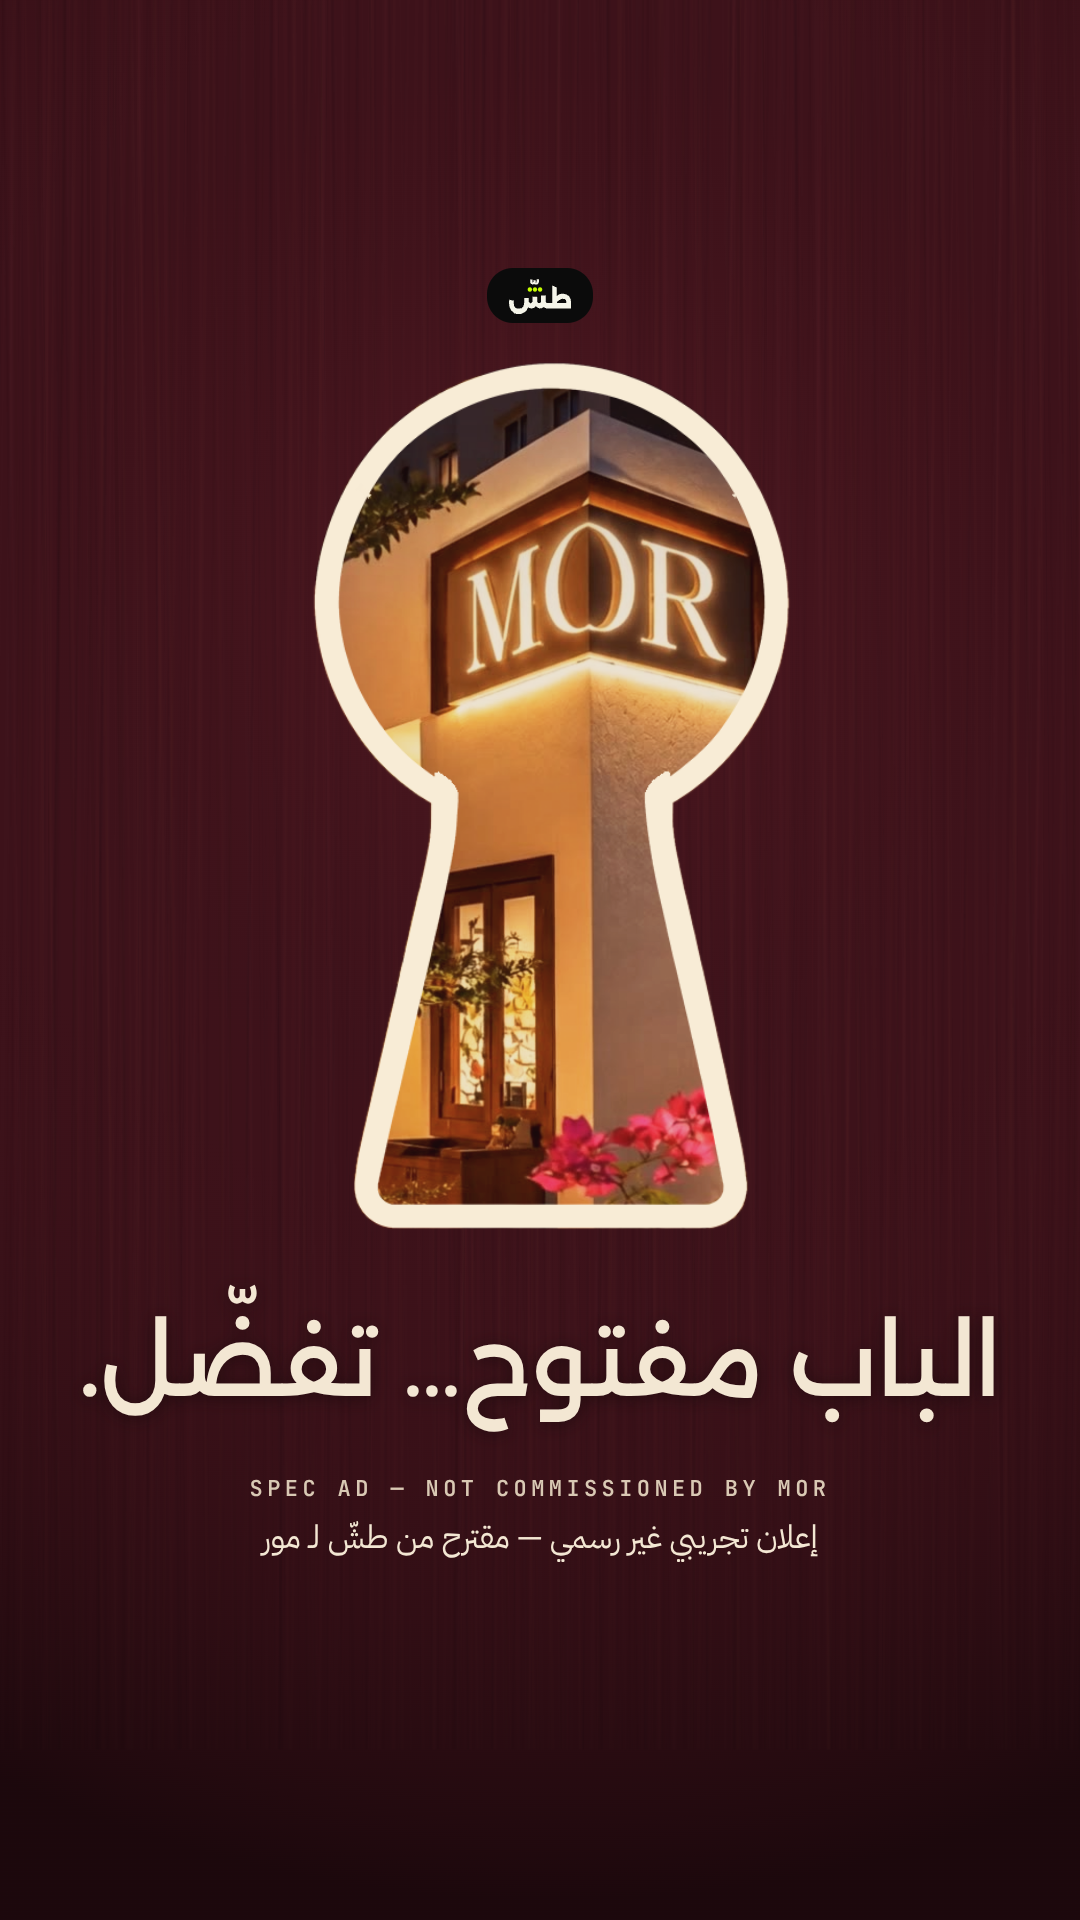
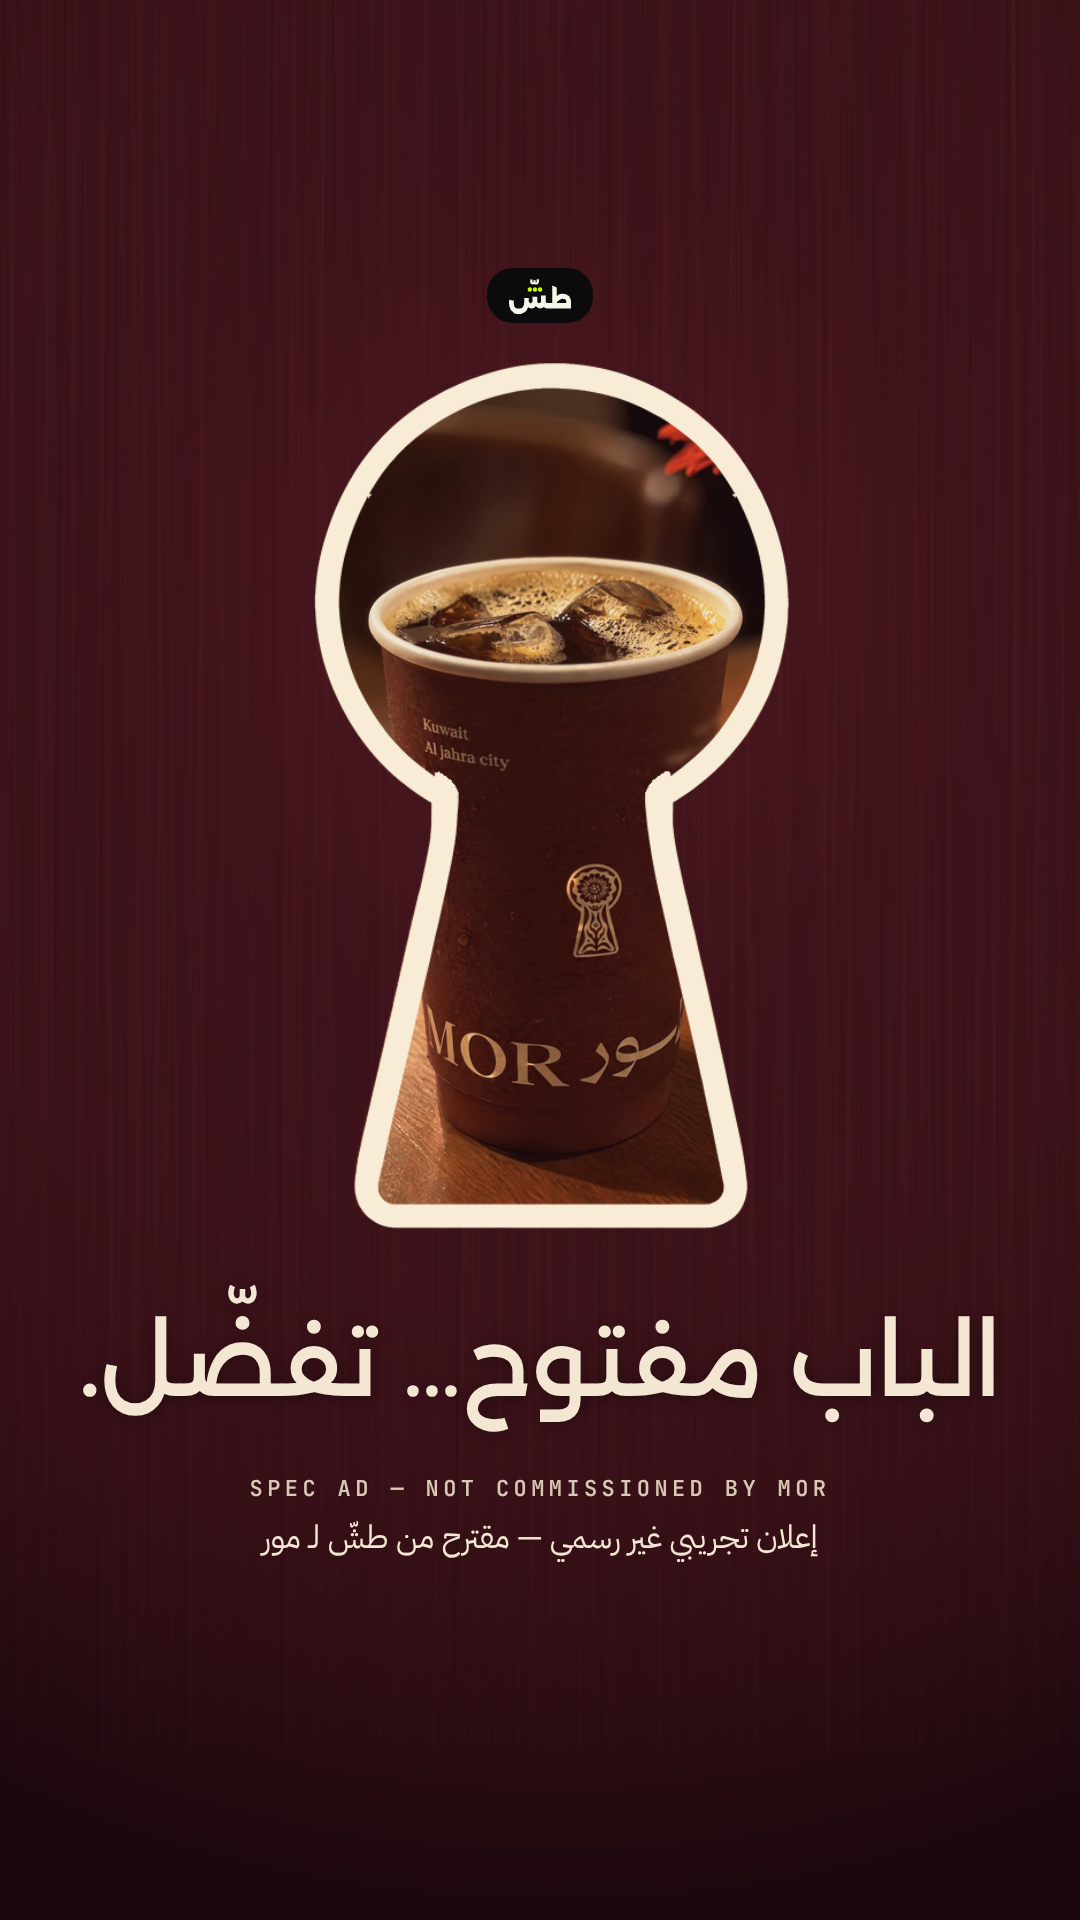
TASH: MOR spec ad: CD fixes (tracked soften of misprinted cup Arabic; poster keyhole frames the cup, not the AI sign)

Changed region(s): [[0.3056, 0.1875, 0.7333, 0.6562]]

diff --git a/tash/09-pitch-mor/src/main.js b/tash/09-pitch-mor/src/main.js
@@ -67,8 +67,53 @@ async function drawFootage(t, extra = {}) {
   const fsx = fx, fsy = fy - oy;                         // the focus point's screen position
   const sx = clamp(fx - fsx / z, 0, W - sw), sy = clamp(fy - fsy / z, 0, SH - sh);
   g.drawImage(img, sx, sy, sw, sh, 0, 0, W, H);
+  softenPrint(seg.id, f - Math.round(seg.t0 * FPS), (x, y) => [(x - sx) * z, (y - sy) * z], z);
   grade(g, { match: MATCH[seg.clip], shades: CLEAN ? [] : (LY.shades[seg.id] || []), ...extra });
   return { seg, f, map: { sx, sy, z } };
+}
+
+// ---------------------------------------------------------------- the cups' small printed Arabic (CD review)
+// The AI misprinted it (m3: garbled; m7: «الكميت» for «الكويت»). tools/track_patch.py tracks the block per frame;
+// here it is softened past legibility with a feathered, deterministic box blur. English and «مور MOR» stay sharp.
+const PATCH = await (await fetch(new URL('./assets/patches.json', import.meta.url))).json();
+const PAD = { C: [44, 14, 24, 30], G: [24, 22, 26, 24] };            // left, top, right, bottom (source px)
+function blurBox(d, w, h, r) {                                     // 3-pass separable box blur, in place (RGB)
+  const tmp = new Float32Array(Math.max(w, h) * 3);
+  for (let pass = 0; pass < 3; pass++) {
+    for (let y = 0; y < h; y++) {                                  // horizontal
+      for (let x = 0; x < w; x++) for (let c = 0; c < 3; c++) {
+        let a = 0, n = 0;
+        for (let k = -r; k <= r; k++) { const xx = Math.min(w - 1, Math.max(0, x + k)); a += d[(y * w + xx) * 4 + c]; n++; }
+        tmp[x * 3 + c] = a / n;
+      }
+      for (let x = 0; x < w; x++) for (let c = 0; c < 3; c++) d[(y * w + x) * 4 + c] = tmp[x * 3 + c];
+    }
+    for (let x = 0; x < w; x++) {                                  // vertical
+      for (let y = 0; y < h; y++) for (let c = 0; c < 3; c++) {
+        let a = 0, n = 0;
+        for (let k = -r; k <= r; k++) { const yy = Math.min(h - 1, Math.max(0, y + k)); a += d[(yy * w + x) * 4 + c]; n++; }
+        tmp[y * 3 + c] = a / n;
+      }
+      for (let y = 0; y < h; y++) for (let c = 0; c < 3; c++) d[(y * w + x) * 4 + c] = tmp[y * 3 + c];
+    }
+  }
+}
+function softenPrint(segId, i, toScreen, scale, ctx = g) {
+  const T = PATCH[segId]; if (!T) return;
+  const [bx, by, bw, bh] = T[Math.max(0, Math.min(T.length - 1, i))], [pl, pt, pr, pb] = PAD[segId];
+  const [x0, y0] = toScreen(bx - pl, by - pt), [x1, y1] = toScreen(bx + bw + pr, by + bh + pb);
+  const fe = Math.round(12 * scale), X = Math.max(0, Math.floor(x0) - fe), Y = Math.max(0, Math.floor(y0) - fe);
+  const Wd = Math.min(ctx.canvas.width, Math.ceil(x1) + fe) - X, Hd = Math.min(ctx.canvas.height, Math.ceil(y1) + fe) - Y;
+  if (Wd <= 2 || Hd <= 2) return;
+  const im = ctx.getImageData(X, Y, Wd, Hd), orig = new Uint8ClampedArray(im.data);
+  blurBox(im.data, Wd, Hd, Math.max(3, Math.round(6 * scale)));
+  for (let y = 0; y < Hd; y++) for (let x = 0; x < Wd; x++) {      // feathered rectangle: blur inside, original outside
+    const dx = Math.min(x, Wd - 1 - x) / fe, dy = Math.min(y, Hd - 1 - y) / fe;
+    let m = Math.min(1, dx, dy); m = m * m * (3 - 2 * m);
+    const p = (y * Wd + x) * 4;
+    for (let c = 0; c < 3; c++) im.data[p + c] = orig[p + c] + (im.data[p + c] - orig[p + c]) * m;
+  }
+  ctx.putImageData(im, X, Y);
 }
 
 // ---------------------------------------------------------------- MOR's keyhole (from the logo plate)
@@ -187,13 +232,21 @@ function cardAt(t) {
   return { ax, ay, S };
 }
 
-const POSTER_T = POSTER ? (await import('./poster.js')).POSTER_T : 0;
+const { POSTER_T = 0, POSTER_PIC = null } = POSTER ? await import('./poster.js') : {};
 async function seek(t) {
   if (POSTER) t = POSTER_T;
   let info = null;
   const tail = !POSTER && t >= EV.sting + 0.2;        // the ink TASH tail covers the frame from here
   if (tail) { g.fillStyle = '#0B0B0B'; g.fillRect(0, 0, W, H); }
-  else if (t < EV.through) {                          // HOOK: through the keyhole
+  else if (POSTER) {                                  // COVER: the keyhole frames MOR's cup (correct mark), not the AI sign
+    const P = POSTER_PIC, seg = SEG[P.seg], img = await F.frame(P.seg, Math.round(seg.t0 * FPS) + P.i);
+    const X0 = P.at[0] - P.src[0] * P.k, Y0 = P.at[1] - P.src[1] * P.k;
+    g.fillStyle = '#14080B'; g.fillRect(0, 0, W, H);
+    g.drawImage(img, 0, 0, 1080, SH, X0, Y0, 1080 * P.k, SH * P.k);
+    softenPrint(P.seg, P.i, (x, y) => [X0 + x * P.k, Y0 + y * P.k], P.k);
+    grade(g, { match: MATCH[seg.clip], exp: 1.1 });
+    const h = hookAt(t); drawDoor(h.ax, h.ay, h.S); g.drawImage(door, 0, 0);
+  } else if (t < EV.through) {                          // HOOK: through the keyhole
     const h = hookAt(t);
     const unlockLift = 1 + 0.28 * tw(t, EV.unlock, 0.18, E.outCubic);  // the lock gives and the light inside comes up
     info = await drawFootage(t, { exp: unlockLift * lerp(0.82, 1, tw(t, EV.push, 0.6, E.inOutSine)) });

diff --git a/tash/09-pitch-mor/src/poster.js b/tash/09-pitch-mor/src/poster.js
@@ -1,10 +1,14 @@
-// MOR — poster / reel cover (?poster=1): the hook's own frame (MOR's keyhole in a burgundy door, the corner glowing at
-// night through it), the payoff line «الباب مفتوح… تفضّل.» and the spec slate (TASH pill + SPEC AD + Arabic slate).
+// MOR — poster / reel cover (?poster=1): the hook's door and MOR's keyhole, framing MOR's cup (m3: the correct emblem and
+// «MOR مور»; the AI sign is no longer shown), the payoff line «الباب مفتوح… تفضّل.» and the spec slate (TASH pill + SPEC AD + Arabic slate).
 // Everything sits inside the profile grid's centre 3:4 crop (y 240–1680) and the reel safe area.
 import { css } from '/_system/motion/kit.js';
 import { wordmarkSVG } from '/_system/brand/logo.mjs';
 
-export const POSTER_T = 0.7;   // after the lock gives (light up), before the push
+export const POSTER_T = 0.7;   // the hook's keyhole geometry (after the lock gives, before the push)
+// the picture inside the keyhole: m3's cup (segment C, frame i), scaled by k so source point `src` (the centre of «MOR مور»)
+// lands on screen point `at`: «MOR مور» sits in the keyhole's wide base, the emblem in its neck; the misprinted small Arabic is softened.
+// (CD review: the AI sign's O folds into a heart; MOR's real sign has a plain O, so the cover no longer shows it.)
+export const POSTER_PIC = { seg: 'C', i: 55, k: 0.45, src: [535, 1720], at: [556, 1128] };
 
 export function makePosterOverlay({ ui, lines, info, slate, stingRoot, MC }) {
   for (const l of lines) l.box.style.display = 'none';

diff --git a/tash/09-pitch-mor/src/tools/track_patch.py b/tash/09-pitch-mor/src/tools/track_patch.py
@@ -1,0 +1,53 @@
+"""MOR — track the cups' small printed Arabic in the conformed footage, so the page can soften it (CD review).
+The AI rendered it wrong: in m3 the top-right block reads as garbage, in m7 it reads «الكميت» for «الكويت». The English
+("Kuwait / Al jahra city") and «مور MOR» are correct and are left untouched.
+
+Method: normalized cross-correlation of a template (the text block) inside a ±R px search window, frame to frame,
+on the 30 fps JPEG sequences in src/footage/<seg>/ (run tools/extract.sh first). The template is refreshed from the
+matched position every frame, blended 70/30 with the original so the track neither drifts nor jitters.
+Writes src/assets/patches.json: {seg: [[x, y, w, h], ...one box per segment frame, in SOURCE px (1080×1920)]}.
+Run: python3 src/tools/track_patch.py
+"""
+import os, json
+import numpy as np
+from PIL import Image
+from numpy.lib.stride_tricks import sliding_window_view
+
+HERE = os.path.dirname(os.path.abspath(__file__))
+SRC = os.path.dirname(HERE)
+FOOT = os.path.join(SRC, 'footage')
+# initial boxes (source px, frame 0 of each segment), measured on full-size frames
+START = {'C': (812, 768, 100, 140), 'G': (872, 1120, 118, 86)}
+R = 18
+
+def gray(seg, i):
+    return np.asarray(Image.open(os.path.join(FOOT, seg, f'{i:04d}.jpg')).convert('L'), np.float32)
+
+def ncc_search(img, tpl, x0, y0):
+    h, w = tpl.shape
+    ys, xs = max(0, y0 - R), max(0, x0 - R)
+    win = img[ys:y0 + R + h, xs:x0 + R + w]
+    patches = sliding_window_view(win, (h, w))
+    t = (tpl - tpl.mean()) / (tpl.std() + 1e-6)
+    pm = patches.mean(axis=(2, 3), keepdims=True); ps = patches.std(axis=(2, 3), keepdims=True) + 1e-6
+    score = (((patches - pm) / ps) * t).mean(axis=(2, 3))
+    dy, dx = np.unravel_index(np.argmax(score), score.shape)
+    return xs + dx, ys + dy, float(score.max())
+
+out = {}
+for seg, (x, y, w, h) in START.items():
+    n = len([f for f in os.listdir(os.path.join(FOOT, seg)) if f.endswith('.jpg')])
+    img = gray(seg, 0); tpl0 = img[y:y + h, x:x + w].copy(); tpl = tpl0.copy()
+    boxes = [[x, y, w, h]]; worst = 1
+    for i in range(1, n):
+        img = gray(seg, i)
+        x, y, s = ncc_search(img, tpl, x, y); worst = min(worst, s)
+        tpl = 0.7 * img[y:y + h, x:x + w] + 0.3 * tpl0
+        boxes.append([int(x), int(y), w, h])
+    # smooth the track (the camera moves smoothly; this removes 1 px match jitter)
+    b = np.array(boxes, np.float32); k = np.ones(5) / 5
+    for c in (0, 1):
+        p = np.pad(b[:, c], 2, mode='edge'); b[:, c] = np.convolve(p, k, mode='valid')
+    out[seg] = [[round(float(v), 1) for v in r] for r in b]
+    print(f'{seg}: {n} frames, start {boxes[0][:2]} → end {boxes[-1][:2]}, worst NCC {worst:.2f}')
+json.dump(out, open(os.path.join(SRC, 'assets', 'patches.json'), 'w'), separators=(',', ':'))

diff --git a/tash/09-pitch-mor/SCRIPT.md b/tash/09-pitch-mor/SCRIPT.md
@@ -10,7 +10,7 @@ version ends on the spec slate, and so does the poster.
 |---|---|
 | `MOR-spec-ad-9x16.mp4` | 1080×1920 · 30 fps · H.264 High + AAC 48 kHz · 20.40 s · −14.0 LUFS, −1.5 dBTP |
 | `MOR-spec-ad-4x5.mp4` | 1080×1350 re-layout (every line re-placed inside the frame, m3 re-framed as a tilt) · same cut and sound · −14.0 LUFS, −1.5 dBTP |
-| `poster.png` | 1080×1920 reel cover (the hook frame + payoff line + spec slate, all inside the centre 3:4 profile crop) |
+| `poster.png` | 1080×1920 reel cover: the hook's door and keyhole, with **MOR's cup** inside it (m3; the emblem and «MOR مور» are correct) instead of the AI sign. The payoff line and spec slate sit inside the centre 3:4 profile crop |
 | `contact-sheet.png` | the 9:16 film at 4 fps |
 | `src/` | the reproducible source (see the end of this file) |
 
@@ -156,8 +156,8 @@ Master: `audio.wav` is pre-mastered to −14.1 LUFS, true peak −1.5 dBTP, LRA 
 
 ## Known weaknesses (honest)
 
-1. **The MOR sign's "O" is an AI artefact.** In m1 the O folds like a heart around the corner of the sign box (MOR's real sign has a plain O). The edit only uses m1's *wide* part, as the CD notes advise, but the hook (0–1.4 s), S1 and especially the **poster** show the sign large enough to notice. Only regenerating the footage can fix it, which wasn't allowed here. **The CD should decide whether the poster may show the sign this big.**
-2. **Garbled micro-Arabic on the cup in m3** (the small print on the right side of the cup, around x 800–900, y 790–890, 6.3–8.2 s). It is an AI artefact. It is small and the shot is short, so it was left.
+1. **The MOR sign's "O" is an AI artefact.** In m1 the O folds like a heart around the corner of the sign box (MOR's real sign has a plain O). The edit only uses m1's *wide* part, as the CD notes advise, and after the CD review the **poster no longer shows the sign**. It still shows, small, in the hook (0–1.4 s) and S1. The CD offered a 1.2–1.5× punch-in that would keep the sign out of frame, but it wasn't done: the sign is the subject the keyhole frames in the hook, and a punch-in would remove the point of the shot. Only regenerating the footage can fix it
+2. **The cups' small printed Arabic is softened, not fixed.** The AI misprinted it: in m3 the top-right block is garbage, and in m7 it reads «الكميت» for «الكويت». `tools/track_patch.py` tracks each block frame by frame (NCC ≥ 0.92), and the page softens it past legibility with a feathered box blur in both formats and on the poster. It reads as focus falloff on the curved cup, but a frame-by-frame look shows a soft patch where print should be. The English "Kuwait / Al jahra city" and «مور MOR» stay sharp. On the poster, the cup's «MOR مور» wraps around the cylinder, so its outer letters fall off the curve (that is the footage itself)
 3. **The hook's first 12 frames barely move** (5 % creep). The first event is the key turn at 0.42 s and the knock and light-up at 0.62 s. A stronger event in 0–0.4 s would sharpen the hook.
 4. **«…وراه قهوة» sits on the brass bar beside the white scale.** m2 has no clean dark area wide enough for a centred line, so it is seated with a graduated falloff and a soft shadow. It is legible, but it isn't on a clean field.
 5. **The low end is still bass-heavy.** About −7 dB of the mix sits at 20–60 Hz. That is mostly the bass line's own roots (G1, A1, B♭1), which phones play through their harmonics. The mix is within spec.
@@ -175,6 +175,7 @@ Master: `audio.wav` is pre-mastered to −14.1 LUFS, true peak −1.5 dBTP, LRA 
 | Self 2 (builder, MP4) | 4 fps contact sheet, cut strips f−1/f/f+1 at every cut, freeze/black detect, per-section RMS, spectrogram | text exits moved 50 ms earlier so no word survives a cut; night ambience +4 dB; the arc measured −29 (night) → −15 (montage) → −33 (breath) → −16 («تفضّل.») → −19 dBFS (tail) |
 | Independent (fresh agent, did not build it) | brief + rubric + the rendered MP4s and poster; ≥30 full-size stills in both formats, cut strips, determinism re-test, loudness | Score **77.5 before fixes → ≈80 after, no line below 3; verdict SHIP**. **Hard-gate fail fixed:** at frames 530–532 the TASH bubble overlapped the fading MOR mark → the ink dip now completes on 17.6 before the bubble. Also fixed: «تفضّل.» was still visible on the first pull-back frame (`welcomeOut` 14.75 → 14.68). In 9:16, «…وراه قهوة» reached y 1535 (bottom safe zone) → top 1336, glyphs y 1355–1470. The «تفضّل.» shadda sat at y 188 (top safe zone) → top 258. The poster headline was crowding the keyhole → lowered. Left alone: weaknesses 1–3 and 5 above |
 | Post-review (builder) | spectrogram, sub share | bass HP 55 Hz, drums HP 48 Hz (20–60 Hz share −6.4 → −7.0 dB); audio re-muxed into both MP4s with no picture change: −14.0 LUFS / −1.5 dBTP |
+| CD review (fc4e76e) | the CD's notes | (1) the misprinted micro-Arabic on the cups (m3 garbled, m7 «الكميت») is now tracked and softened in both formats (`tools/track_patch.py` → `assets/patches.json`, `main.js → softenPrint`). (2) The poster's keyhole now frames m3's cup (correct emblem and wordmark) instead of the AI sign (`poster.js → POSTER_PIC`). The hook punch-in was declined (see weakness 1). Both MP4s re-rendered; the audio is unchanged |
 
 ---
 
@@ -184,6 +185,7 @@ Master: `audio.wav` is pre-mastered to −14.1 LUFS, true peak −1.5 dBTP, LRA 
   placement) · `overlay.js` (Arabic lines, info line, slate, TASH tail) · `poster.js` (`?poster=1`) · `sting-short.js` (the local
   short TASH sting, copied from the HABBA ad) · `footage.js` · `cues.js` + `cues.json`
 - `audio.py` → `audio.wav`
+- `tools/track_patch.py` → `assets/patches.json` (per-frame boxes of the cups' misprinted small Arabic in segments C and G; needs `footage/`, so run it after `extract.sh`)
 - `tools/key_logo.py` → `assets/` (ring, rosette, plant, «مور», MOR, keyhole silhouette, `logo.json`): keys the cream mark off
   the burgundy plate by colour projection. The layers composite back to the plate within a mean of 0.7 levels (8-bit)
 - `tools/extract.sh` → `tools/conform.py` → `footage/` (the 30 fps JPEG sequences, ~100 MB; **not committed**, rebuild with
